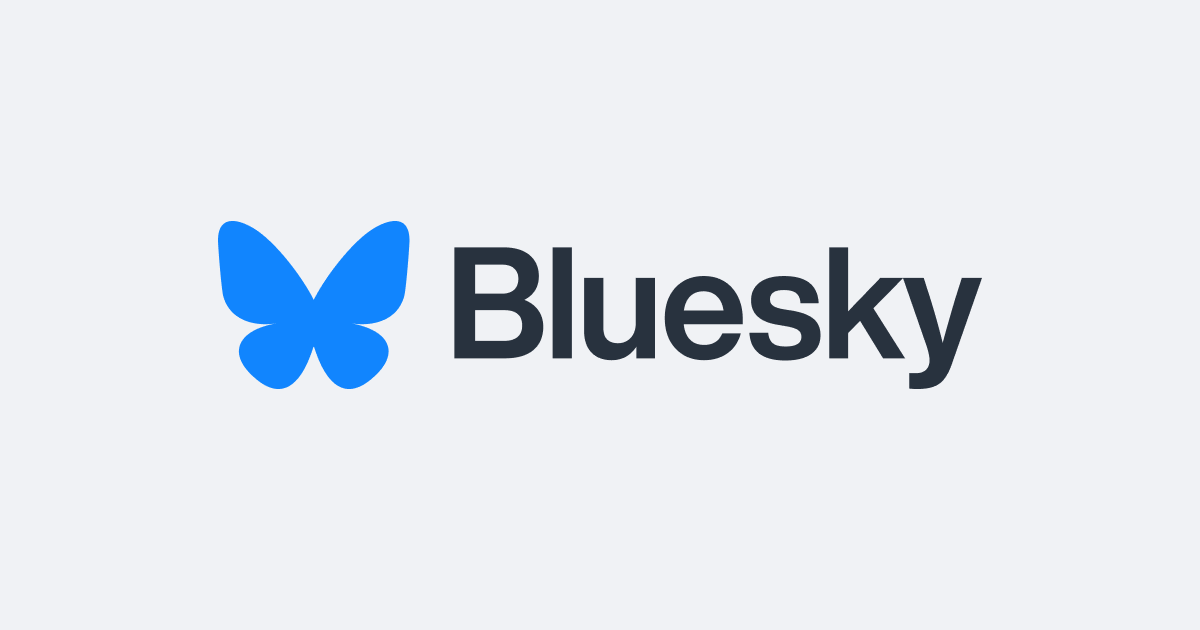
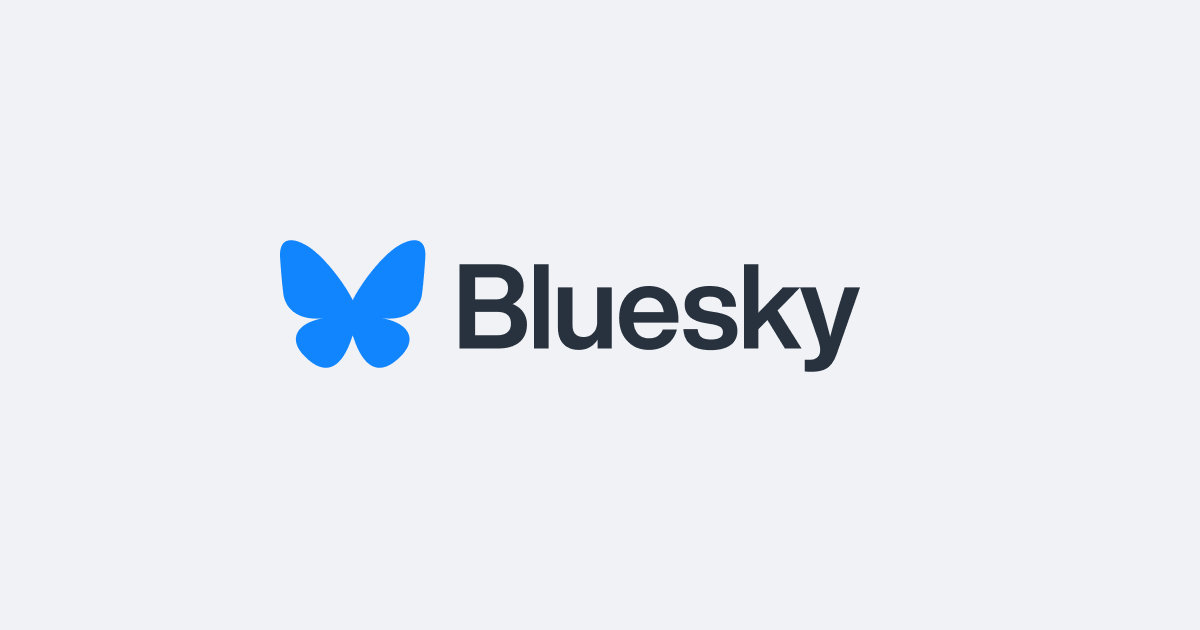
Update open graph data (#2760)
* Update open graph data

* Format

* Fix typo

Changed region(s): [[0.1542, 0.3317, 0.8325, 0.6333]]

diff --git a/bskyweb/templates/home.html b/bskyweb/templates/home.html
@@ -3,14 +3,21 @@
 {% block head_title %}Bluesky{% endblock %}
 
 {% block html_head_extra -%}
-  <meta name="description" content="See what's next.">
-  <meta property="og:type" content="website">
-  <meta property="og:title" content="Bluesky Social">
-  <meta property="og:description" content="See what's next.">
-  <meta property="og:image" content="/static/social-card-default.png">
-  <meta property="og:site_name" content="Bluesky Social">
-  <meta name="twitter:card" content="summary">
-  <meta name="twitter:site" content="@bluesky">
+  <meta property="og:title" content="Bluesky" />
+  <meta name="twitter:title" content="Bluesky" />
+
+  <meta name="description" content="Social media as it should be. Find your community among millions of users, unleash your creativity, and have some fun again." />
+  <meta name="og:description" content="Social media as it should be. Find your community among millions of users, unleash your creativity, and have some fun again." />
+  <meta name="twitter:description" content="Social media as it should be. Find your community among millions of users, unleash your creativity, and have some fun again." />
+
+  <meta property="og:url" content="https://bsky.app" />
+  <meta name="twitter:url" content="https://bsky.app" />
+
+  <meta property="og:image" content="https://bsky.app/static/social-card-default-gradient.png" />
+  <meta property="twitter:image" content="https://bsky.app/static/social-card-default-gradient.png"  />
+
+  <meta name="twitter:site" content="@bluesky" />
+  <meta name="twitter:card" content="summary_large_image" />
 {%- endblock %}
 
 {% block noscript_extra %}

diff --git a/bskyweb/templates/base.html b/bskyweb/templates/base.html
@@ -205,9 +205,13 @@
   <link rel="apple-touch-icon" sizes="180x180" href="/static/apple-touch-icon.png">
   <link rel="icon" type="image/png" sizes="32x32" href="/static/favicon-32x32.png">
   <link rel="icon" type="image/png" sizes="16x16" href="/static/favicon-16x16.png">
-  {% block html_head_extra -%}{%- endblock %}
+  <link rel="mask-icon" href="/static/safari-pinned-tab.svg" color="#1185fe">
+  <meta name="theme-color" content="#ffffff">
   <meta name="application-name" content="Bluesky">
   <meta name="generator" content="bskyweb">
+  <meta property="og:site_name" content="Bluesky Social" />
+
+  {% block html_head_extra -%}{%- endblock %}
 </head>
 <body>
 {%- block body_all %}

diff --git a/bskyweb/templates/post.html b/bskyweb/templates/post.html
@@ -10,7 +10,6 @@
 
 {% block html_head_extra -%}
 {%- if postView -%}
-  <meta property="og:site_name" content="Bluesky Social">
   <meta property="og:type" content="article">
   <meta property="profile:username" content="{{ profileView.Handle }}">
   {%- if requestURI %}

diff --git a/bskyweb/cmd/bskyweb/formating.go b/bskyweb/cmd/bskyweb/formating.go
@@ -51,7 +51,7 @@ func ExpandPostText(post *appbsky.FeedPost) string {
 	}
 	// TODO: could embed the actual post text?
 	if post.Embed != nil && (post.Embed.EmbedRecord != nil || post.Embed.EmbedRecordWithMedia != nil) {
-		postText = fmt.Sprintf("%s\n\n[contains quote post or other embeded content]", postText)
+		postText = fmt.Sprintf("%s\n\n[contains quote post or other embedded content]", postText)
 	}
 	return postText
 }
